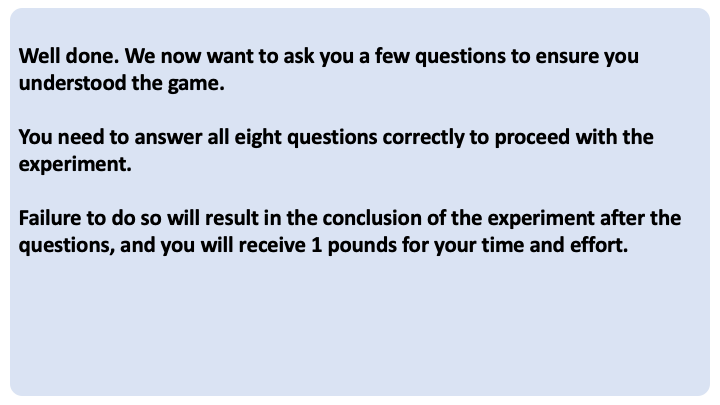
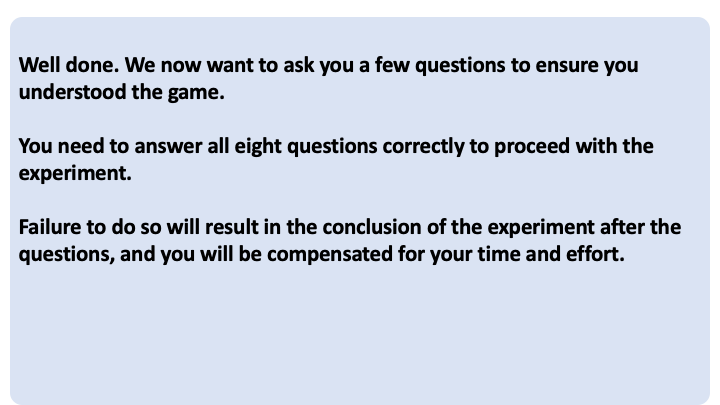
Fix mesages

diff --git a/public_html/SpaceShipExperiment.js b/public_html/SpaceShipExperiment.js
@@ -44,17 +44,23 @@ const firebaseConfig = {
     }
 
 
-           const thisHeight = window.innerHeight * 0.9; // 90% of the viewport height
-        const thisWidth = window.innerWidth * 0.9;   // 90% of the viewport width
+    const thisHeight = window.innerHeight * 0.9; // 90% of the viewport height
+    const thisWidth = window.innerWidth * 0.9;   // 90% of the viewport width
 
-        const DispWidth = thisHeight * 5 / 6; // Set display width dynamically
-        const DispHeight = DispWidth / 2;
+    const DispWidth = thisHeight * 5 / 6; // Set display width dynamically
+    const DispHeight = DispWidth / 2;
 
-        const ConfWidth = thisHeight * 4 / 6;
-        const ConfHeight = ConfWidth / 2;
-        
-    var attentionTrialnum=1;
-    var distCrit = 2;    
+    const ConfWidth = thisHeight * 4 / 6;
+    const ConfHeight = ConfWidth / 2;
+      
+    // ------------------------ set parameters 
+    
+    var attentionTrialnum=20;    // After this trial, we start checking if they pay enough attention we set it to 20
+    var distCrit = 10;           // If subject misses these number of trials they will be droped out 
+    var NumWarmUpTrials = 20;   // this warm up trials and should be 20 
+    var NumMainTrials   = 365;  // this is main trials and should be 365
+    // -----------------------
+    
     var distConfirmed = false;
     var S2 = [];
     var S4 = [];
@@ -235,7 +241,7 @@ const trueResponses = ['answer1', 'answer3', 'answer1', 'answer2', 'answer1', 'a
       if (if_warmup==1) {
             Instruct = true; 
           ////////////////////////////////////////////////////////////////////////////   
-            NumTrials = 20; // 
+            NumTrials = NumWarmUpTrials; // 
             pre_tr    = 0; // num trials before warm up
           ////////////////////////////////////////////////////////////////////////////
           rew_duration    = 3000; // how many MILLISECONDS to show the reward for 
@@ -249,7 +255,7 @@ const trueResponses = ['answer1', 'answer3', 'answer1', 'answer2', 'answer1', 'a
            Instruct = false;
             ////////////////////////////////////////////////////////////////////////////
             pre_tr    = NumTrials; // num trials before warm up
-            NumTrials = 6; // cant be more then 365
+            NumTrials = NumMainTrials; // cant be more then 365
             ////////////////////////////////////////////////////////////////////////////
           rew_duration    = 1200; // how many MILLISECONDS to show the reward for 
           wait            = 1100; // how many MILLISECONDS to wait befor saying you are too late 
@@ -257,7 +263,7 @@ const trueResponses = ['answer1', 'answer3', 'answer1', 'answer2', 'answer1', 'a
           wait_missedit   = 1000; // how many MILLISECONDS to wait in missed it page 
           wait_break      = 30;   // how many SECONDS to wait for the break
           trial_break   	= 95  ; // every how many trials to have a break
-            if_warmup=0
+          if_warmup=0
         }
         
         if (ID>10) {
@@ -1079,7 +1085,6 @@ if (distConfirmed) {
         
         },200); // creating a gap between the screens  
 
-        
     }
     
     
@@ -1284,6 +1289,7 @@ if (distConfirmed) {
         QuesAns: ques_ans,
         ReadyToMain: allCorrect,
         PercRew: perc_rew,
+        Ifwarmup: if_warmup,
         Timestamp: new Date().toISOString() // Save current date and time in ISO format
 
     };
@@ -1335,24 +1341,22 @@ if (distConfirmed) {
         message =  '<H2 align="center">All responses are correct.</H2> \n\
         <H3 align = "center"> Please read the instruction before starting the main experiment. </H3>';
     } else {
-        message = '<H2 align="center">You could not answer to all questions correctly. <br> We need to say good bye to you and thank          you for your participation.</H2> \n\
-        <H3 align = "center"> You will be paied for your time. </H3>' ;
+        message = '<H2 align="center">You could not answer to all questions correctly. <br> We need to say goodbye to you and thank          you for your participation! </H2> \n\
+        <H3 align = "center"> You will be compensated for your time and effort. </H3>' ;
     }
   } else {
   if (!distConfirmed) {
         message =  '<H2 align="center">Well Done!</H2> \n\
-        <H3 align = "center"> You succesfully finished the experiment. Thank you so much for your participation. You will be paied for         your time and also will recive some top up bases on your performance </H3>';
+        <H3 align = "center"> You have successfully completed the experiment. Thank you for your participation! You will be compensated for your time, with an additional bonus based on your performance. </H3>';
         finsihed = true;
   }else{
         message = '<H2 align = "center"> You can not continue the experiment, </H2> \n\
-        <H3 align = "center"> becuase you missed a lot of trials. Thank you for your participation. </H3> \n\
-        <H4 align = "center"> You will be paid for your time and top up bounses for your performance </H4></div>'   
+        <H3 align = "center"> becuase you missed a lot of trials. Thank you for your participation! </H3> \n\
+        <H4 align = "center"> You will be compensated for your time, with an additional bonus based on your performance. </H4></di>'
         finsihed = true;
   }
 }
         
-
-    
         CreateDiv('Stage', 'TextBoxDiv');
         $('#TextBoxDiv').html(message);
 
